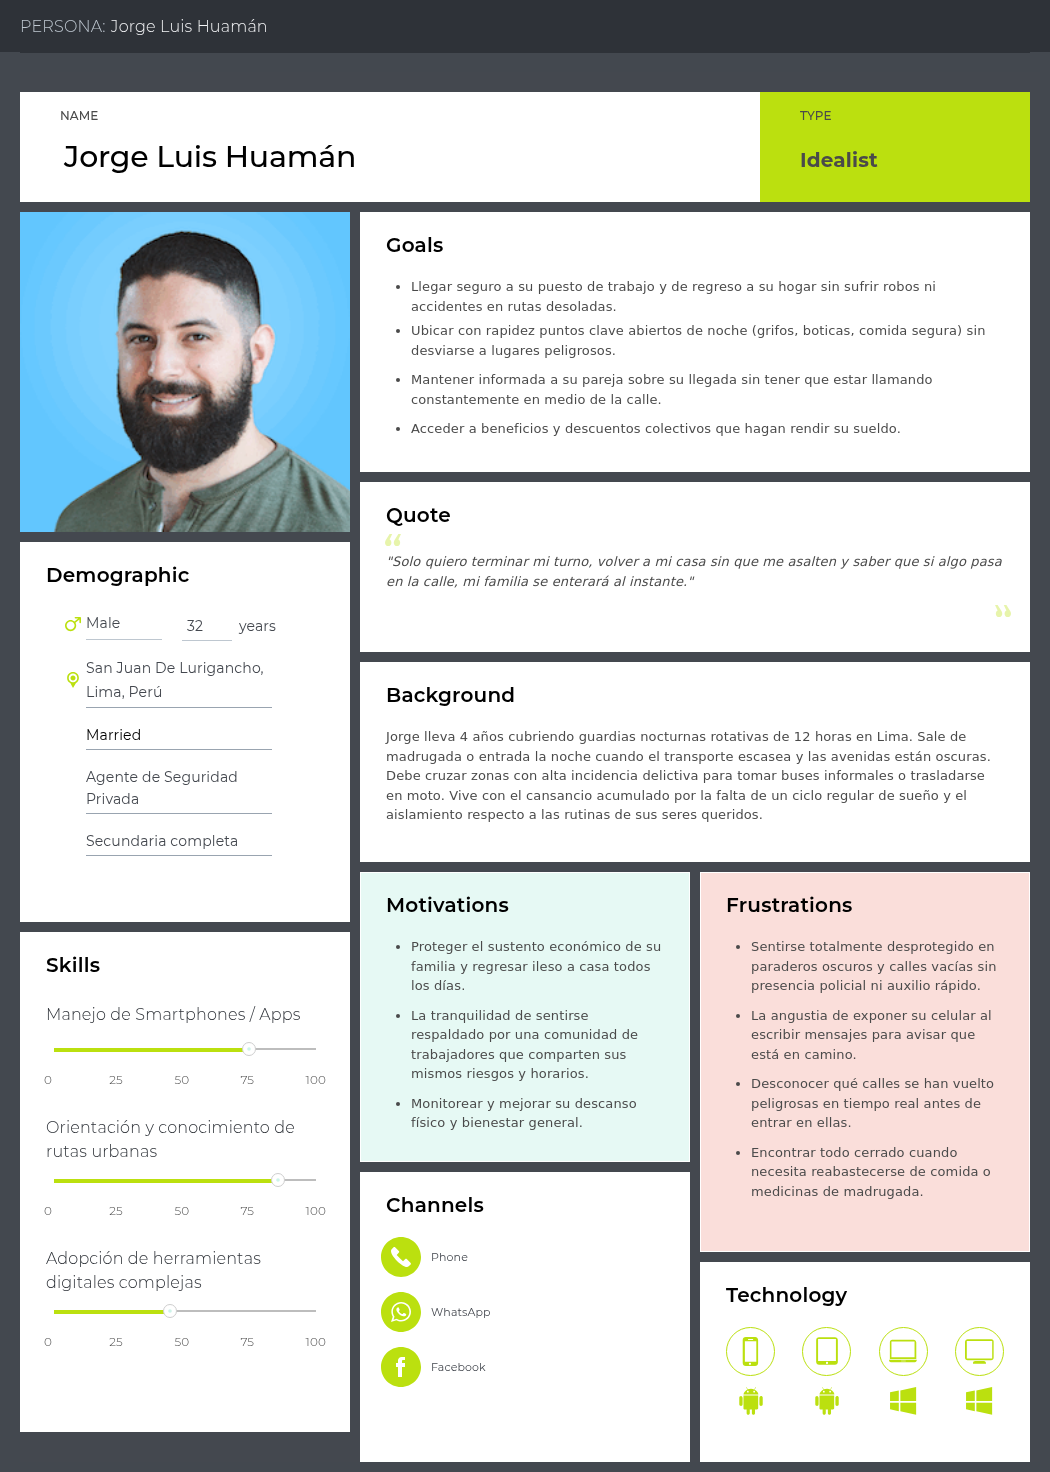
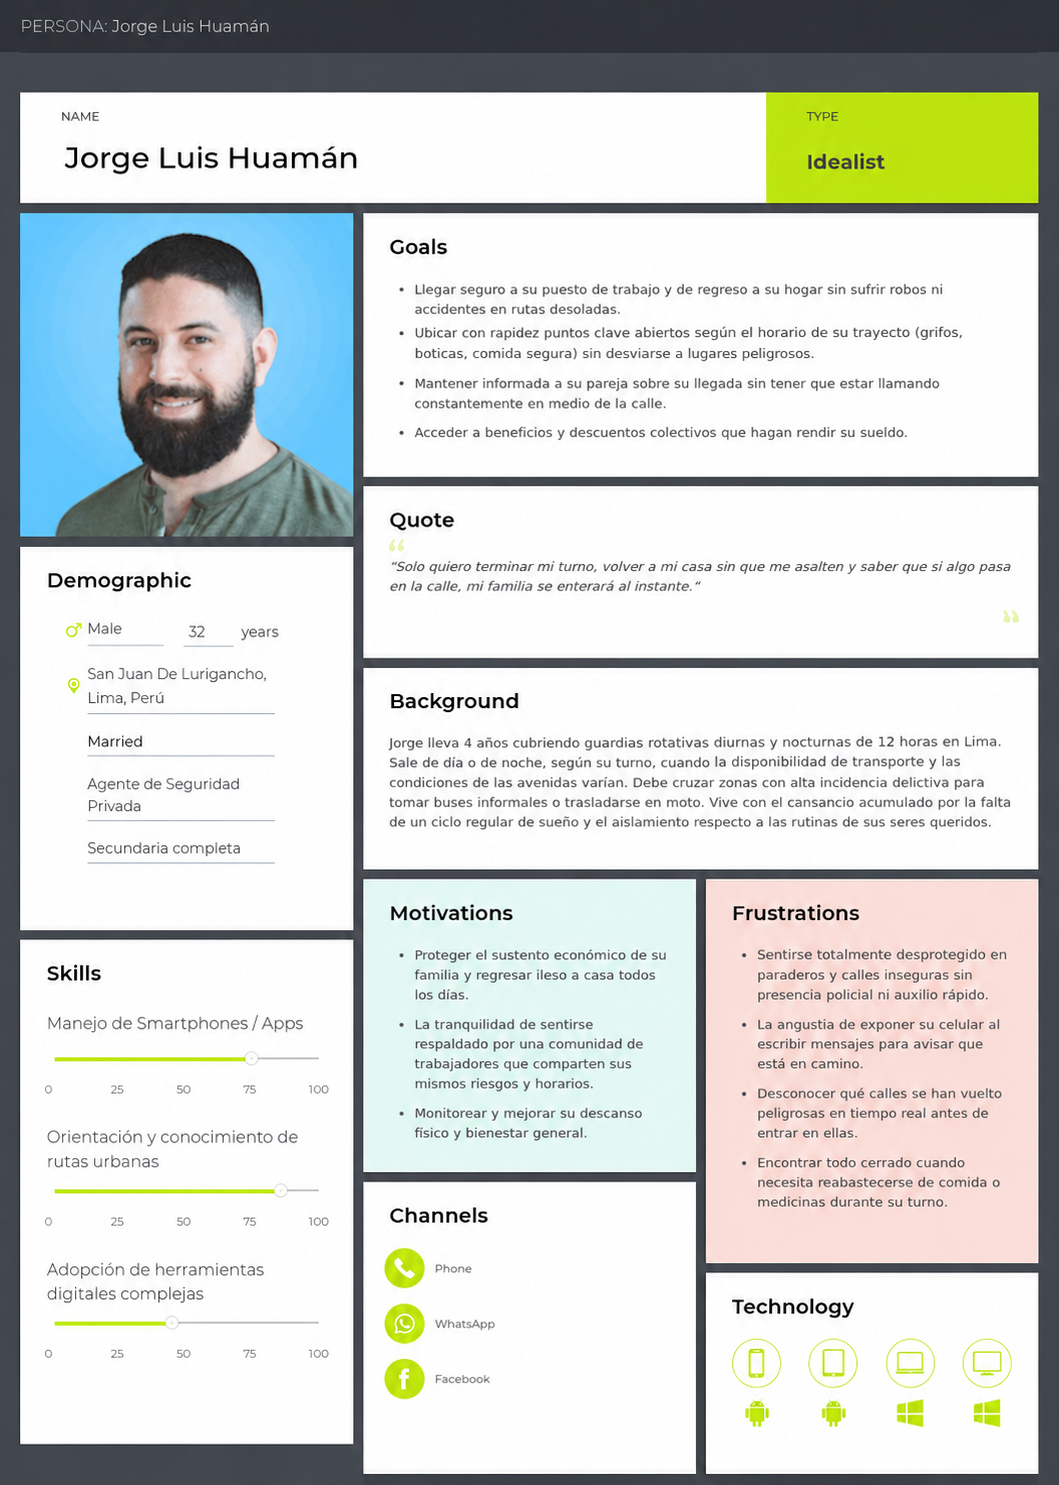
docs(personas): adapt worker and trusted contact profiles to both shifts

diff --git a/README.md b/README.md
@@ -106,14 +106,14 @@ Se organizaron los aportes del equipo mediante ramas de funcionalidades y Pull R
     - [2.2.2. Registro de entrevistas](#222-registro-de-entrevistas)
   - [2.3. Needfinding.](#23-needfinding)
     - [2.3.1. User Personas.](#231-user-personas)
-      - [Segmento Objetivo 1: Trabajador de Turno Nocturno](#segmento-objetivo-1-trabajador-de-turno-nocturno)
+      - [Segmento Objetivo 1: Trabajador de Turno Diurno o Nocturno](#segmento-objetivo-1-trabajador-de-turno-diurno-o-nocturno)
       - [Segmento Objetivo 2: Contacto de Confianza](#segmento-objetivo-2-contacto-de-confianza)
     - [2.3.2. User Task Matrix.](#232-user-task-matrix)
     - [2.3.3. User Journey Mapping.](#233-user-journey-mapping)
-      - [Segmento Objetivo 1: Trabajador de Turno Nocturno](#segmento-objetivo-1-trabajador-de-turno-nocturno-1)
+      - [Segmento Objetivo 1: Trabajador de Turno Nocturno](#segmento-objetivo-1-trabajador-de-turno-nocturno)
       - [Segmento Objetivo 2: Contacto de Confianza](#segmento-objetivo-2-contacto-de-confianza-1)
     - [2.3.4. Empathy Mapping.](#234-empathy-mapping)
-      - [Segmento Objetivo 1: Trabajador de Turno Nocturno](#segmento-objetivo-1-trabajador-de-turno-nocturno-2)
+      - [Segmento Objetivo 1: Trabajador de Turno Nocturno](#segmento-objetivo-1-trabajador-de-turno-nocturno-1)
       - [Segmento Objetivo 2: Contacto de Confianza](#segmento-objetivo-2-contacto-de-confianza-2)
   - [2.4. Big Picture EventStorming.](#24-big-picture-eventstorming)
   - [2.5. Ubiquitous Language.](#25-ubiquitous-language)
@@ -703,7 +703,7 @@ A partir del análisis competitivo, se han identificado las siguientes estrategi
 
 En esta sección se presentan las fichas de User Personas construidas a partir de los datos recolectados del análisis de entrevistas a nuestros segmentos objetivos. Estas fichas permiten representar de forma clara y estratégica los perfiles de cada segmento objetivo, considerando sus metas, habilidades, motivaciones y dificultades. De esta manera se integra la perspectiva del usuario y tendencias del sector para identificar oportunidades en el mercado y ofrecer una solución alineada a lo que el usuario necesita.
 
-#### Segmento Objetivo 1: Trabajador de Turno Nocturno
+#### Segmento Objetivo 1: Trabajador de Turno Diurno o Nocturno
 ![User Persona - Jorge Luis Huamán](resources/imgs/up-Jorge%20Luis%20Huaman.png)
 
 #### Segmento Objetivo 2: Contacto de Confianza
